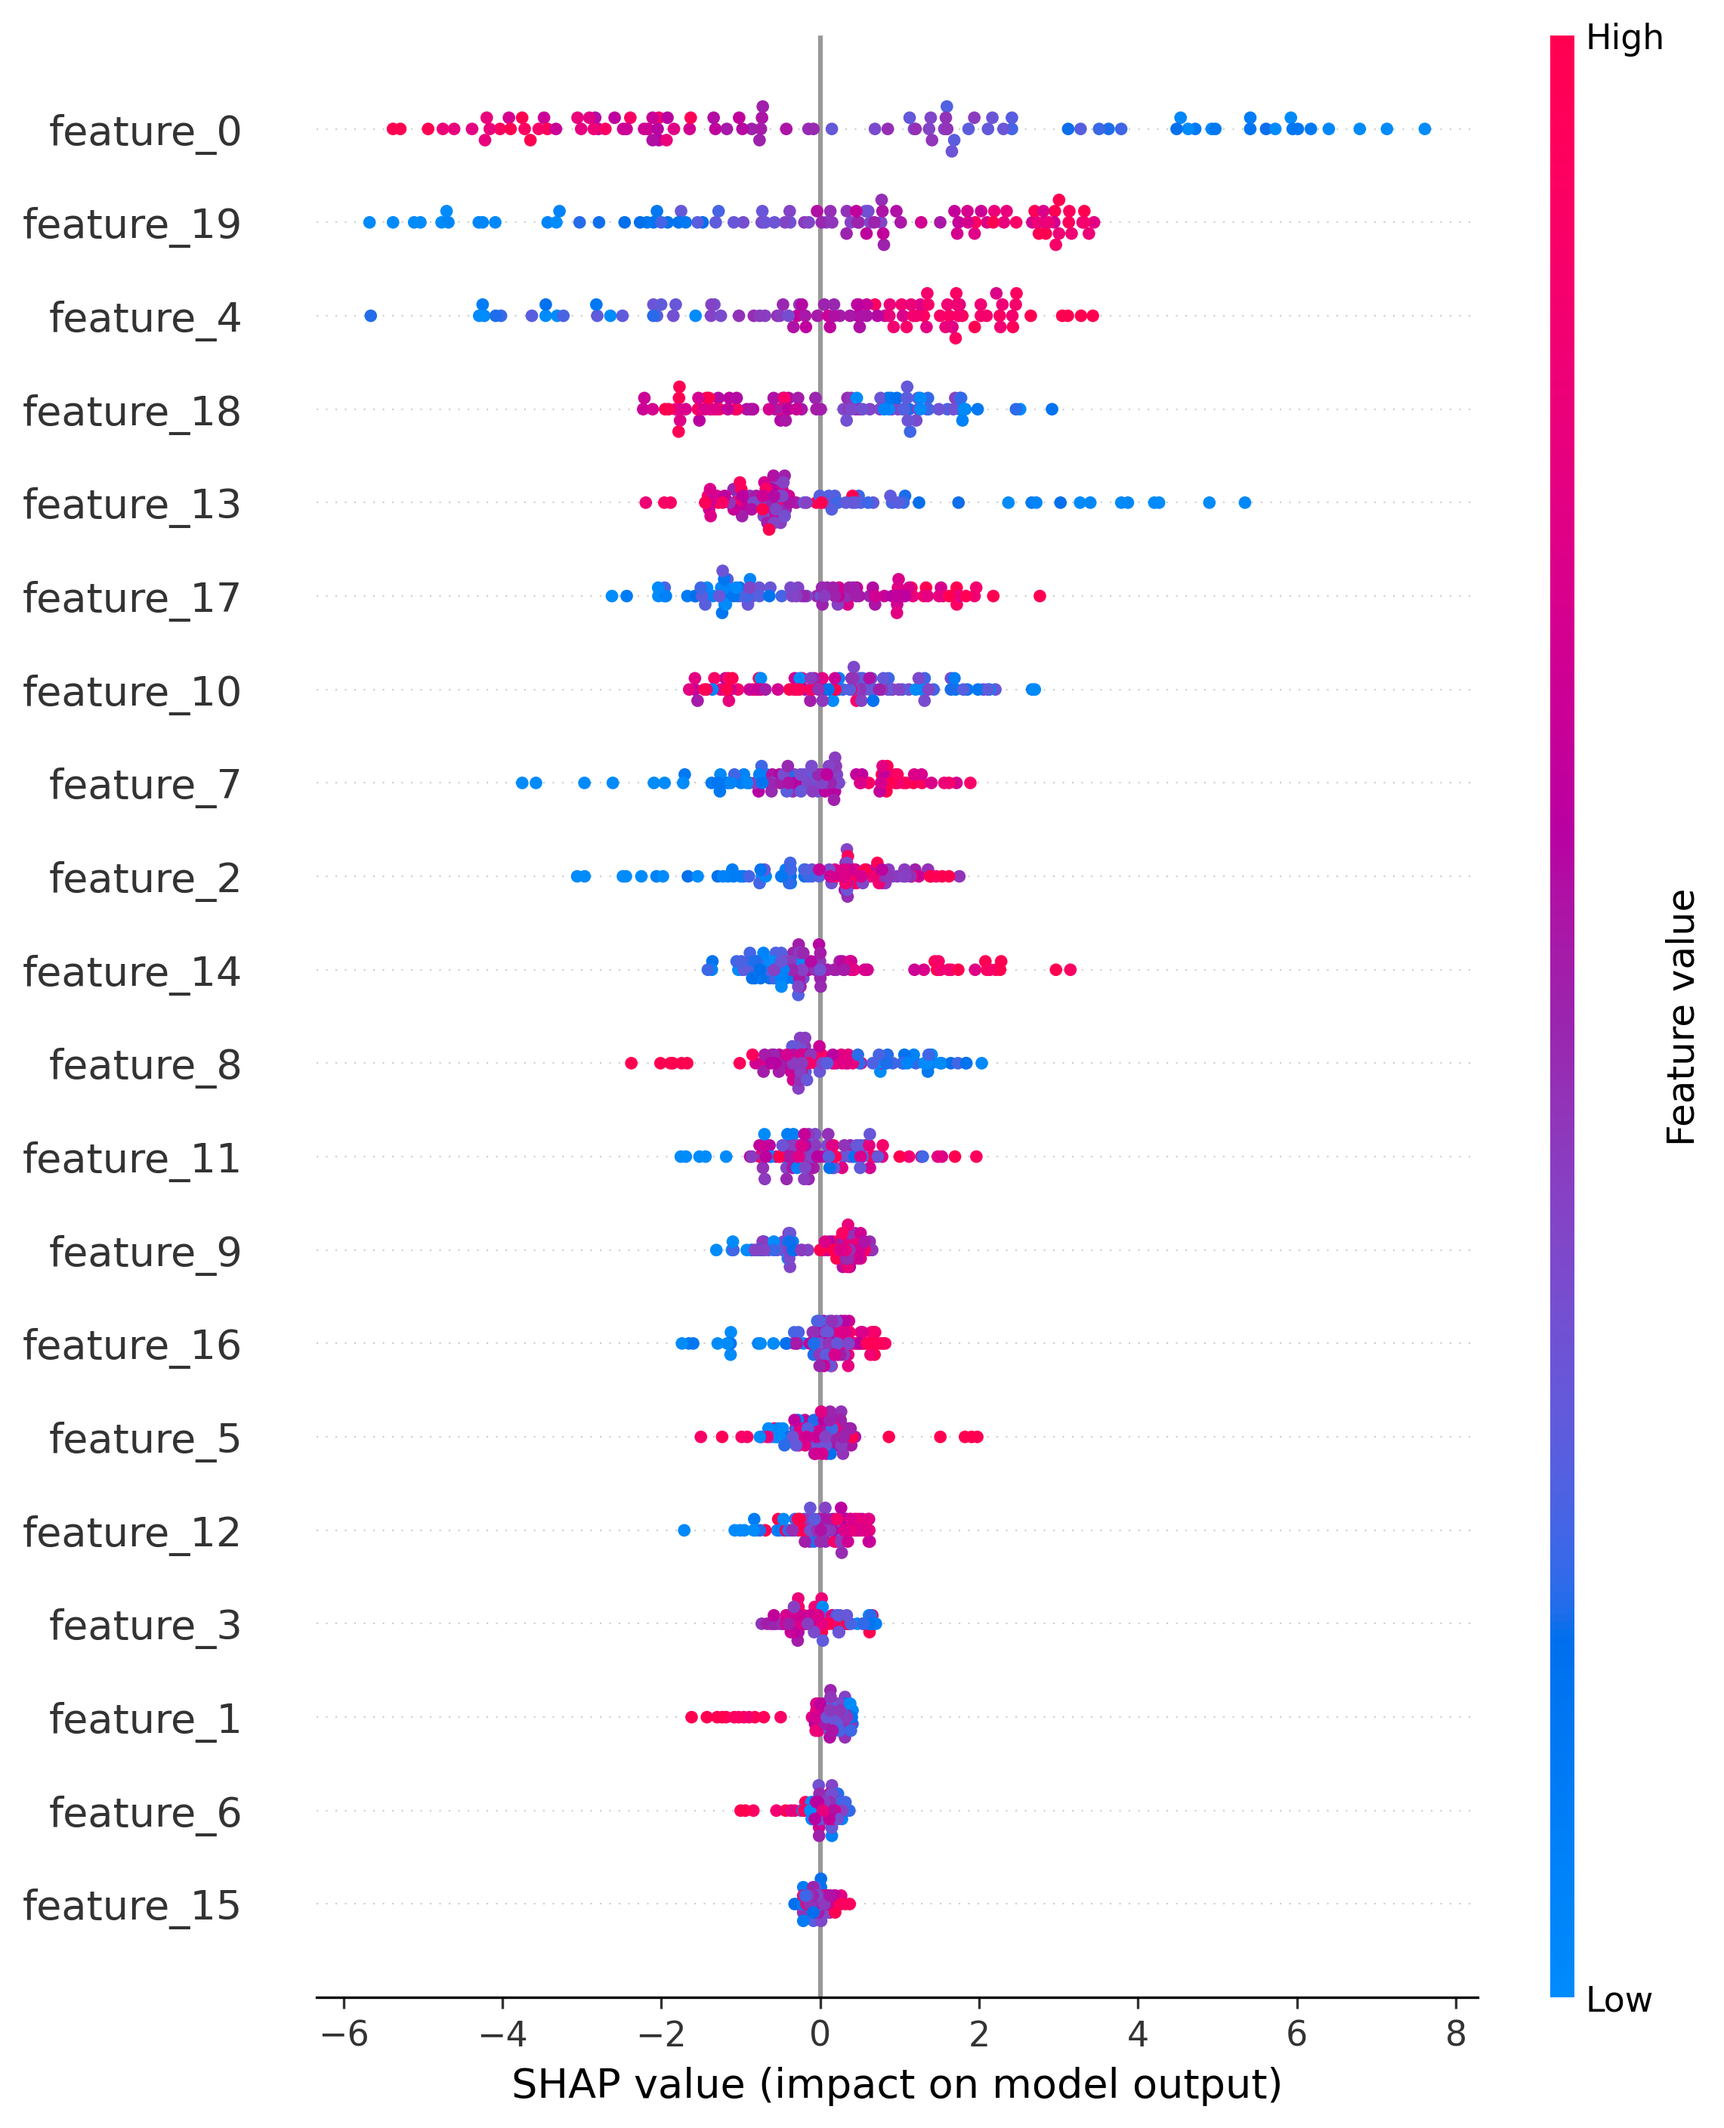
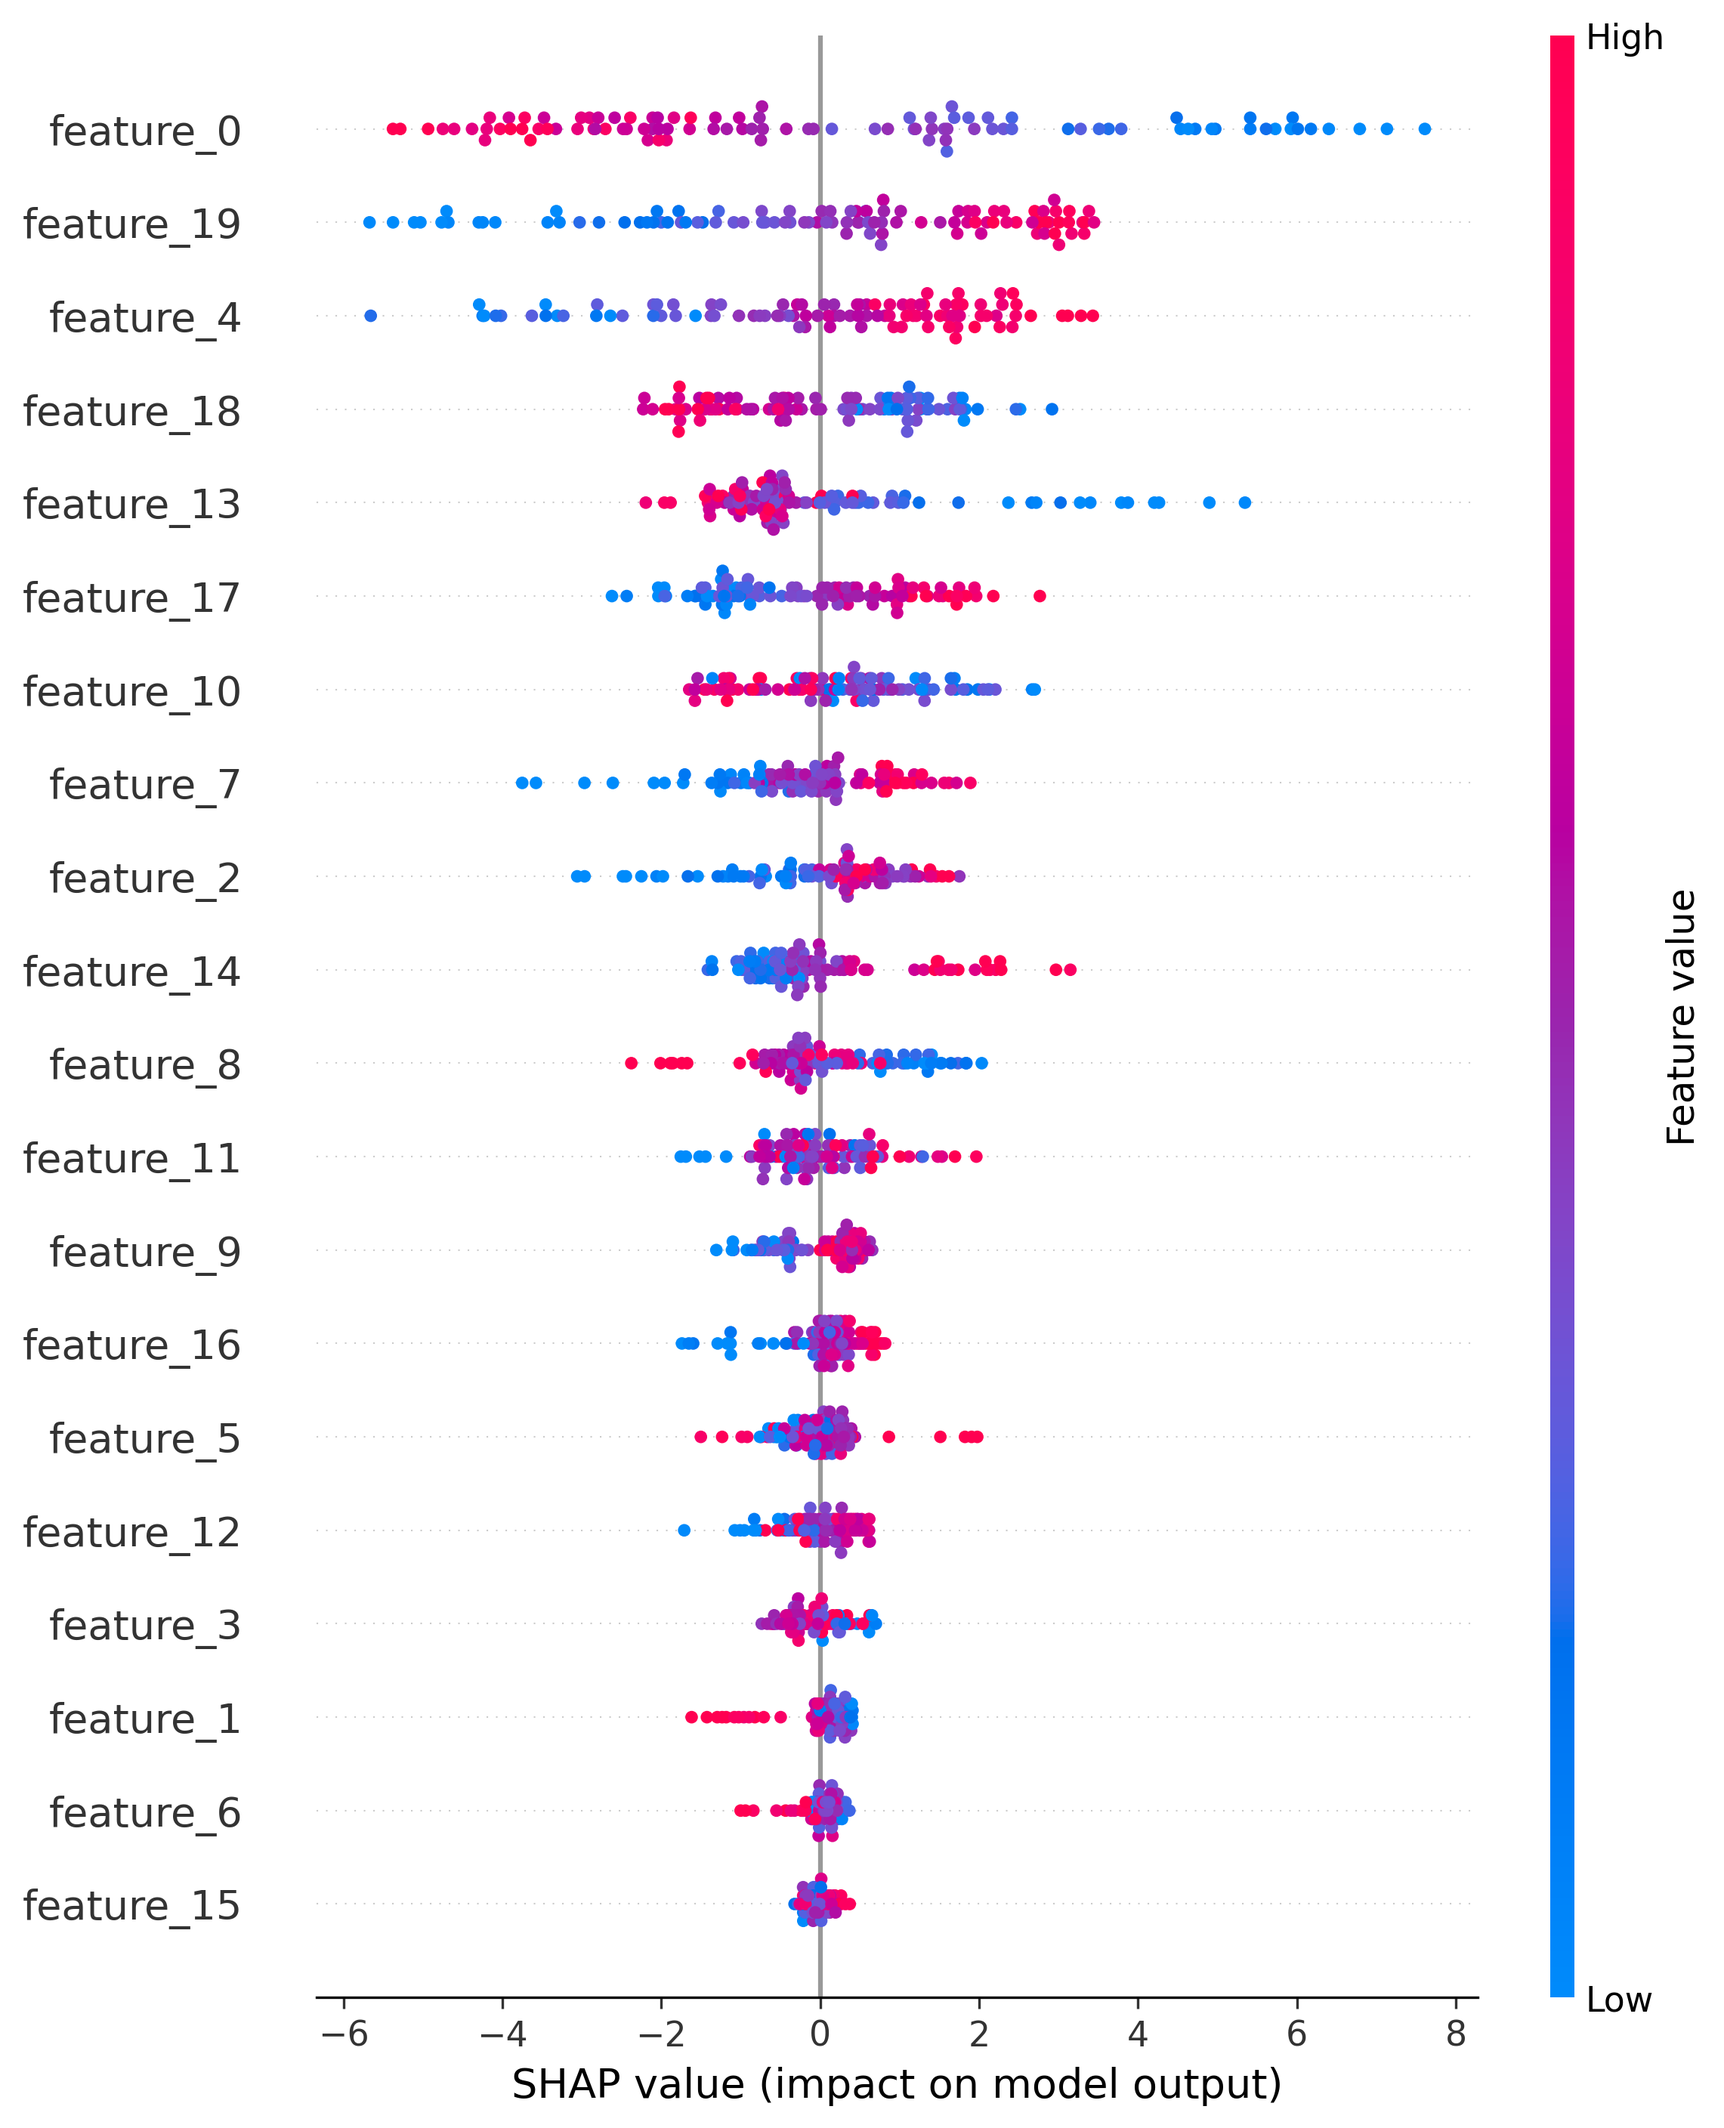
feat: implement multi-omic pancan integration pipeline with comprehensive research and stability reporting.

diff --git a/src/xai_clinical/data/loader.py b/src/xai_clinical/data/loader.py
@@ -63,6 +63,13 @@ class DataLoader:
     @staticmethod
     def load_pancan_expression(config: dict) -> pd.DataFrame:
         import os
+        
+        # Liste des codes TSS pour BRCA identifiés dans le dataset local
+        brca_tss = {
+            '3C', '4H', '5L', '5T', 'A1', 'A2', 'A7', 'A8', 'AC', 'AN', 'AO', 'AQ', 'AR', 
+            'B6', 'BH', 'C8', 'D8', 'E2', 'E9', 'EW', 'GI', 'GM', 'HN', 'JL', 'LD', 'LL', 
+            'LQ', 'MS', 'OK', 'OL', 'PE', 'PL', 'S3', 'UL', 'UU', 'V7', 'W8', 'WT', 'XX', 'Z7'
+        }
 
         expression_path = os.path.join(
             config["pancan_dir"], config["pancan_files"]["expression"]
@@ -77,9 +84,16 @@ class DataLoader:
 
         # Filtrer pour le type de cancer souhaité (ex. : BRCA)
         if "filter_cancer_type" in config:
-            cancer_samples = [
-                col for col in df.columns if config["filter_cancer_type"] in col
-            ]
+            target_type = config["filter_cancer_type"]
+            if target_type == "BRCA":
+                cancer_samples = [
+                    col for col in df.columns 
+                    if any(tss in col.split('-')[1:2] for tss in brca_tss)
+                ]
+            else:
+                cancer_samples = [
+                    col for col in df.columns if target_type in col
+                ]
             df = df[cancer_samples]
 
         print(f"Données d'expression chargées : {df.shape}")
@@ -89,6 +103,13 @@ class DataLoader:
     def load_pancan_mutations(config: dict) -> pd.DataFrame:
         """Charge les données de mutations PANCAN."""
         import os
+        
+        # Liste des codes TSS pour BRCA identifiés dans le dataset local
+        brca_tss = {
+            '3C', '4H', '5L', '5T', 'A1', 'A2', 'A7', 'A8', 'AC', 'AN', 'AO', 'AQ', 'AR', 
+            'B6', 'BH', 'C8', 'D8', 'E2', 'E9', 'EW', 'GI', 'GM', 'HN', 'JL', 'LD', 'LL', 
+            'LQ', 'MS', 'OK', 'OL', 'PE', 'PL', 'S3', 'UL', 'UU', 'V7', 'W8', 'WT', 'XX', 'Z7'
+        }
 
         mutations_path = os.path.join(
             config["pancan_dir"], config["pancan_files"]["mutations"]
@@ -102,9 +123,15 @@ class DataLoader:
 
         # Filtrer pour le type de cancer souhaité
         if "filter_cancer_type" in config:
-            df = df[
-                df["Tumor_Sample_Barcode"].str.contains(config["filter_cancer_type"])
-            ]
+            target_type = config["filter_cancer_type"]
+            if target_type == "BRCA":
+                df = df[
+                    df["Tumor_Sample_Barcode"].apply(lambda x: any(tss in str(x).split('-')[1:2] for tss in brca_tss))
+                ]
+            else:
+                df = df[
+                    df["Tumor_Sample_Barcode"].str.contains(target_type)
+                ]
 
         print(f"Données de mutations chargées : {len(df)} mutations")
         return df
@@ -378,18 +405,53 @@ class DataLoader:
 class BRCADataLoader(DataLoader):
     """Chargeur spécifique pour BRCA TCGA"""
 
+    def load_clinical(self) -> pd.DataFrame:
+        """Charge les données cliniques BRCA."""
+        path = Path(self.config.data.raw_dir) / "brca_tcga" / "data_clinical_patient.txt"
+        if not path.exists():
+            # Fallback si config n'est pas structuré ainsi
+            path = Path("data/raw/brca_tcga/data_clinical_patient.txt")
+        
+        df = pd.read_csv(path, sep="\t", comment="#")
+        logger.info(f"Clinical data loaded: {df.shape}")
+        return df
+
+    def load_mrna(self) -> pd.DataFrame:
+        """Charge les données d'expression mRNA BRCA."""
+        path = Path(self.config.data.raw_dir) / "brca_tcga" / "data_mrna_seq_v2_rsem.txt"
+        if not path.exists():
+            path = Path("data/raw/brca_tcga/data_mrna_seq_v2_rsem.txt")
+        
+        df = pd.read_csv(path, sep="\t", index_col=0)
+        # Transposer si les gènes sont en lignes
+        if df.shape[0] > 10000: # Heuristique pour détecter les gènes en lignes
+            df = df.T
+        logger.info(f"mRNA data loaded: {df.shape}")
+        return df
+
+    def load_mutations(self) -> pd.DataFrame:
+        """Charge les données de mutations BRCA."""
+        path = Path(self.config.data.raw_dir) / "brca_tcga" / "data_mutations.txt"
+        if not path.exists():
+            path = Path("data/raw/brca_tcga/data_mutations.txt")
+        
+        df = pd.read_csv(path, sep="\t", comment="#")
+        logger.info(f"Mutation data loaded: {df.shape}")
+        return df
+
     def load_all(self):
         """Charge et aligne les données cliniques et génomiques"""
         clinical = self.load_clinical()
         mrna = self.load_mrna()
 
         # Alignement par ID patient (12 premiers caractères TCGA)
-        clinical["PATIENT_ID_SHORT"] = clinical["PATIENT_ID"].str[:12]
-        mrna.index = mrna.index.str[:12]
+        clinical["PATIENT_ID_SHORT"] = clinical["PATIENT_ID"].str[:12].str.upper()
+        mrna.index = mrna.index.astype(str).str[:12].str.upper()
 
         common = list(set(clinical["PATIENT_ID_SHORT"]) & set(mrna.index))
+        logger.info(f"Common patients: {len(common)}")
 
-        clinical = clinical[clinical["PATIENT_ID_SHORT"].isin(common)]
+        clinical = clinical[clinical["PATIENT_ID_SHORT"].isin(common)].set_index("PATIENT_ID_SHORT")
         mrna = mrna.loc[common]
 
         return clinical, mrna

diff --git a/src/xai_clinical/data/pancan_loader.py b/src/xai_clinical/data/pancan_loader.py
@@ -38,7 +38,7 @@ class PANCANLoader:
         
         logger.info(f"Chargement PANCAN expression: {filepath}")
         
-        df = pd.read_csv(filepath, sep='\\t', index_col=0, compression='infer')
+        df = pd.read_csv(filepath, sep='\t', index_col=0, compression='infer')
         df = df.T  # échantillons en lignes
         
         if self.cancer_type:
@@ -67,7 +67,7 @@ class PANCANLoader:
             filepath = candidates[0]
         
         logger.info(f"Chargement PANCAN CNV: {filepath}")
-        df = pd.read_csv(filepath, sep='\\t')
+        df = pd.read_csv(filepath, sep='\t')
         
         id_col = next((c for c in ['Sample', 'sample', 'SampleID'] if c in df.columns), None)
         if id_col:
@@ -91,7 +91,7 @@ class PANCANLoader:
             filepath = candidates[0]
         
         logger.info(f"Chargement manifest: {filepath}")
-        df = pd.read_csv(filepath, sep='\\t')
+        df = pd.read_csv(filepath, sep='\t')
         
         clinical_cols = ['case_id', 'case_submitter_id', 'primary_site', 
                         'disease_type', 'gender', 'race', 'ethnicity']
@@ -108,10 +108,24 @@ class PANCANLoader:
     
     def _extract_cancer_types(self, sample_ids: pd.Index) -> pd.Series:
         """Extrait le type de cancer depuis les IDs TCGA (TCGA-XX-XXXX)."""
+        # Liste des codes TSS pour BRCA identifiés dans le dataset local
+        brca_tss = {
+            '3C', '4H', '5L', '5T', 'A1', 'A2', 'A7', 'A8', 'AC', 'AN', 'AO', 'AQ', 'AR', 
+            'B6', 'BH', 'C8', 'D8', 'E2', 'E9', 'EW', 'GI', 'GM', 'HN', 'JL', 'LD', 'LL', 
+            'LQ', 'MS', 'OK', 'OL', 'PE', 'PL', 'S3', 'UL', 'UU', 'V7', 'W8', 'WT', 'XX', 'Z7'
+        }
+        
         types = []
         for sid in sample_ids:
             parts = str(sid).split('-')
-            types.append(parts[1] if len(parts) >= 2 else 'UNKNOWN')
+            if len(parts) >= 2:
+                tss = parts[1]
+                if self.cancer_type == "BRCA" and tss in brca_tss:
+                    types.append("BRCA")
+                else:
+                    types.append(tss) # On garde le TSS par défaut
+            else:
+                types.append('UNKNOWN')
         return pd.Series(types, index=sample_ids)
     
     def get_common_samples(self) -> List[str]:
@@ -206,7 +220,7 @@ class BRCALoader:
             raise FileNotFoundError(f"Fichier non trouvé: {filepath}")
         
         # cBioPortal: métadonnées en commentaires (#)
-        df = pd.read_csv(filepath, sep='\\t', comment='#', index_col=0)
+        df = pd.read_csv(filepath, sep='\t', comment='#', index_col=0)
         self.clinical_patient = df
         logger.info(f"Clinical patient: {df.shape}")
         return df
@@ -217,7 +231,7 @@ class BRCALoader:
         if not filepath.exists():
             raise FileNotFoundError(f"Fichier non trouvé: {filepath}")
         
-        df = pd.read_csv(filepath, sep='\\t', comment='#', index_col=0)
+        df = pd.read_csv(filepath, sep='\t', comment='#', index_col=0)
         self.clinical_sample = df
         logger.info(f"Clinical sample: {df.shape}")
         return df
@@ -233,7 +247,7 @@ class BRCALoader:
                 logger.warning("Aucun fichier mRNA seq trouvé")
                 return None
         
-        df = pd.read_csv(filepath, sep='\\t', index_col=0)
+        df = pd.read_csv(filepath, sep='\t', index_col=0)
         if df.shape[0] < df.shape[1]:
             df = df.T
         
@@ -252,7 +266,7 @@ class BRCALoader:
                 logger.warning("Aucun fichier mutations trouvé")
                 return None
         
-        df = pd.read_csv(filepath, sep='\\t', comment='#')
+        df = pd.read_csv(filepath, sep='\t', comment='#')
         self.mutations = df
         logger.info(f"Mutations: {df.shape}")
         return df
@@ -268,7 +282,7 @@ class BRCALoader:
                 logger.warning("Aucun fichier CNA trouvé")
                 return None
         
-        df = pd.read_csv(filepath, sep='\\t', index_col=0)
+        df = pd.read_csv(filepath, sep='\t', index_col=0)
         self.cna = df
         logger.info(f"CNA: {df.shape}")
         return df
@@ -336,9 +350,12 @@ class PANCANBRCAFusion:
         df = df.copy()
         
         if id_col and id_col in df.columns:
-            df.index = df[id_col].str[:12]
+            df.index = df[id_col].astype(str).str[:12]
         else:
             df.index = df.index.astype(str).str[:12]
+        
+        # S'assurer que l'index est en majuscules pour éviter les mismatches
+        df.index = df.index.str.upper()
         
         df = df[~df.index.duplicated(keep='first')]
         return df

diff --git a/reports/research_report.md b/reports/research_report.md
@@ -1,6 +1,6 @@
 # XAI Clinical Prediction - Research Report
 
-**Date:** 2026-04-21 21:20
+**Date:** 2026-04-23 13:50
 
 ## Abstract
 
